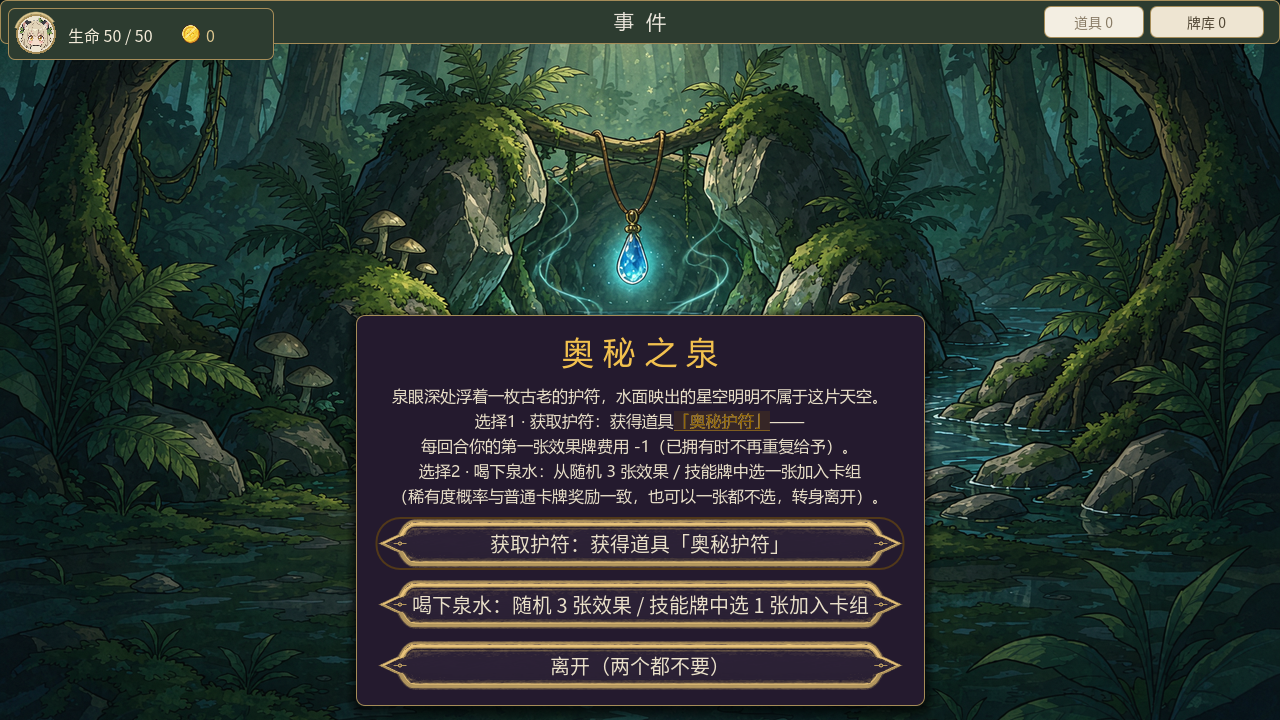
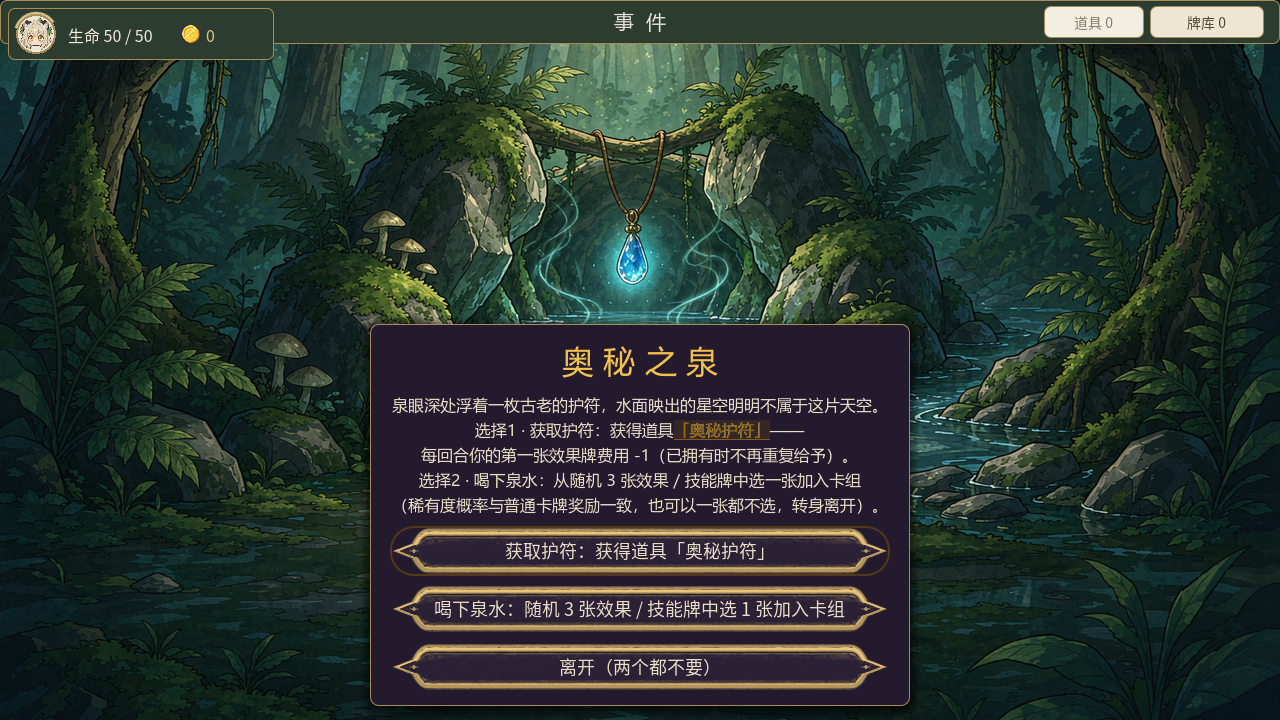
R517b 同页按钮统一字号（按组内最长文案算，挂 minimum_size_changed）

Changed region(s): [[0.25, 0.4278, 0.75, 0.9778]]

diff --git a/HANDOFF.md b/HANDOFF.md
@@ -8,9 +8,12 @@
      ⚠ 不能用 `modulate_color`：乘色会把比纸暗的金线压成暗红、直接消失。
      生成脚本 `art_src/2026-11-07_暗紫按钮/tools/make_night_buttons.py`
      （按 R−B 暖度分离纸面与金线后各自重映射）。
-  2. **第二行按钮更矮、字更小** → `_fit_action_button` 按 `size.y <= 44` 判 compact，
-     而场景里四个按钮是 46 / 42 / 38 / 38 → 第一个大档、其余小档。
-     现在 night 路径强制 `compact = false`，`scenes/event.tscn` 四个按钮统一 **46 高**。
+  2. **第二行按钮更矮、字更小** → 两个独立成因，都修了：
+     - 高度：`_fit_action_button` 按 `size.y <= 44` 判 compact，而场景里四个按钮是 46 / 42 / 38 / 38
+       → 第一个大档、其余小档。现在 night 路径强制 `compact = false`，`scenes/event.tscn` 四个按钮统一 **46 高**。
+     - 字号：原先逐个按钮各自缩字，长文案掉到 `FS_LABEL`、短的是 `FS_SUBHEAD`。
+       新增 `UiTheme._night_group_font_size()`：取「组里每个按钮都放得下」的最大字号整组统一下发，
+       并挂到 `resized` **和** `minimum_size_changed`（改 `text` 不会发 `resized`）。
   3. **渐变不该强行加白** → 原来只淡 alpha，图里的亮块会一路亮到边界才消失。
      改成两段：`SIDE_FADE_RGB = 0.62` 起把 **RGB 推向页面底色**（按 `UV.y` 与纵向渐变对齐），
      `SIDE_FADE_ALPHA = 0.74` 起才收 alpha。

diff --git a/UI设计规范.md b/UI设计规范.md
@@ -191,6 +191,11 @@ UiTheme.<颜色|字号|间距令牌>            # 其余
   - ⚠ 同一页的同类按钮**必须同高一档**。R517 之前按 `size.y <= 44` 判 compact，而场景里四个按钮
     的 `custom_minimum_size` 是 46 / 42 / 38 / 38 → 第一个走大档、其余走小档，「第二行更矮字更小」。
     现在 `_fit_action_button(..., night=true)` 强制 `compact = false`，`scenes/event.tscn` 四个按钮统一 46 高。
+  - ⚠ 同一页的按钮**还必须同字号**。逐个按钮各自缩字时，文案长的会掉到 `FS_LABEL`、短的是 `FS_SUBHEAD`，
+    一页里两种字号看着仍然不齐。`UiTheme._night_group_font_size()` 取「组里每个按钮都放得下」的
+    最大字号，整组统一下发；挂在 `resized` **和** `minimum_size_changed` 两个信号上
+    （改 `text` 不会发 `resized`，只发后者）。
+    代价：一页里只要有一行超长文案，整组会一起变小 —— 所以超长文案应尽量在文案层就改短。
   - ⚠ `UiTheme._fit_action_button` 会在按钮 resize 时**重设 stylebox**，
     所以它必须带 `night` 参数，否则深色缎带会被浅色贴图冲掉（R516 踩过）。
 · R516 左右布局（`side_lake_lady` 首个用例）：图片占满左侧 58% 全高，文字与按钮在右侧，
